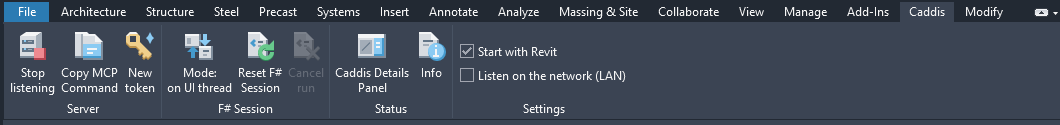
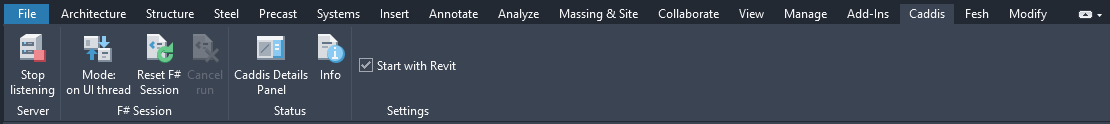
Update the screenshots in the READMEs of Rhino and Revit to Caddis 0.3.0
Taken in Rhino 8.35 and Revit 2026.5: the panel with its agents and versions, Revit's ribbon without the token and LAN buttons,
and new exemplary runs in Revit. The READMEs mention Run again and the versions under Settings.

diff --git a/Caddis.Rhino/README.md b/Caddis.Rhino/README.md
@@ -61,9 +61,11 @@ Open it with the command `Caddis` and the option `Panel`, then dock it like any 
 Its content is the Avalonia panel shared with Revit in `Caddis.UI`, hosted in Rhino's Eto docking container.
 Rhino supplies its theme colors and the additional command-line settings.
 
+Both screenshots were taken in Rhino 8.35 with Caddis 0.3.0, during and after the [exemplary run](#exemplary-run) below.
+
 | Dark theme, during a run | Light theme, with the settings unfolded |
 | --- | --- |
-| ![The Caddis panel in Rhino's dark theme, with a run in progress and the code of the first run](Docs/panel-dark.png) | ![The Caddis panel in Rhino's light theme, with the settings and the output of a run](Docs/panel-light.png) |
+| ![The Caddis panel in Rhino's dark theme, with a run in progress and the code of the first run](Docs/panel-dark.png) | ![The Caddis panel in Rhino's light theme, with the settings unfolded and the output of the third run](Docs/panel-light.png) |
 
 - The header shows where the server listens, and the state and thread mode of the F# session.
 - `Start` / `Stop` the server.
@@ -71,12 +73,14 @@ Rhino supplies its theme colors and the additional command-line settings.
   see [Connect an AI agent](../README.md#connect-an-ai-agent).
 - `Cancel run` stops a run on the background thread, `Reset FSI session` starts a new F# session.
 - `Settings` unfolds the thread mode and the options `Start with Rhino`, `Echo output to the command line`
-  and `Cancel commands in scripts that wait for input`. All buttons and options have tooltips.
+  and `Cancel commands in scripts that wait for input`, and shows the versions of .NET, FSharp.Core, FSharp.Compiler.Service and Caddis.
+  All buttons and options have tooltips.
 - The recent runs are listed newest first, with their id, status, duration and first line of code:
   `r` for F# code, `c` for Rhino commands, `x` for exports.
 - `Output` shows the value, stdout, the Rhino command line, F# Interactive's output, errors and files of the selected run.
 - `Code` shows its code read-only, with F# highlighting, line numbers and search (Ctrl+F).
   It is formatted with Fantomas, unchecking `Formatted` shows the code as it was run, whose line numbers match the errors.
+  `Run again` runs the code of the selected F# run as a new run.
   `Export` saves the code of the run to an `.fsx` file, `Export all` saves all successful F# runs to one,
   oldest first, each after a comment with its id and time. Both save the code as it is shown, formatted or not.
 
@@ -148,12 +152,13 @@ An agent sent these, the panel lists them newest first:
   ```
   </details>
 - `c2` sets up the view with Rhino commands, via `caddis_command`:
-  `-_SetActiveViewport Perspective`, `-_MaxViewport`, `-_SetDisplayMode _Viewport=_Active _Mode=_Shaded`, `_Zoom _All _Extents`.
+  `-_SetActiveViewport Perspective`, `-_MaxViewport`, `-_SetDisplayMode _Viewport=_Active _Mode=_Shaded`,
+  four times `-_RotateView _Right`, and `_Zoom _All _Extents`.
 - `r3` computes the volumes of the slabs. It uses `slabs` from `r1`: the values of earlier runs stay available.
 - `x4` exports all objects to `towers.obj`, via `caddis_export`.
 - `r5` runs for 12 s on the background thread, the viewport screenshot below was taken meanwhile.
 
-This screenshot was taken in Rhino 8.35 on Windows, after the runs listed above.
+This screenshot was taken in Rhino 8.35 on Windows with Caddis 0.3.0, while `r5` was running.
 
 ![Three twisted towers in a Rhino viewport, framed by the yellow border Caddis draws while a run is in progress](Docs/run-border.png)
 

diff --git a/Caddis.Revit/README.md b/Caddis.Revit/README.md
@@ -106,10 +106,12 @@ output, scrollbars and keyboard focus.
 
 The code viewer is read-only, with F# highlighting, line numbers and Ctrl+F search.
 The `Formatted` check box switches between Fantomas formatting and the original script, whose line
-numbers match the diagnostics. `Export` saves the code of the run to an `.fsx` file,
+numbers match the diagnostics. `Run again` runs the code of the selected F# run as a new run.
+`Export` saves the code of the run to an `.fsx` file,
 `Export all` saves all successful F# runs to one, oldest first, each after a comment
 with its id and time, both as the code is shown, formatted or not. `Settings` unfolds the thread mode
-and **Start with Revit**. Revit's latest status message and grouped
+and **Start with Revit**, and shows the versions of .NET, FSharp.Core and FSharp.Compiler.Service,
+and whether this is the latest version of Caddis. Revit's latest status message and grouped
 element changes are preserved; Rhino's command-line options are hidden.
 
 The shared view is covered by headless tests on .NET 8 and .NET 10. The WPF wrapper
@@ -122,12 +124,14 @@ was unchanged. The WPF shell fills its container without an outer margin, avoidi
 black strips at the edges. Mouse/keyboard interaction and moving between monitors
 still need manual verification.
 
-Both screenshots were taken in Revit 2026.5 after the same five runs: the first two list the levels and create four walls,
-the fourth fails because the project has no door type. The panel shows the output of the second run, which created the walls.
+Both screenshots were taken in Revit 2026.5 with Caddis 0.3.0, after the same five runs: `r1` lists the levels and wall types,
+`r2` creates four walls and `r3` a floor inside them. `r4` fails because the project has no door type,
+so `r5` cuts an opening into the first wall instead. The dark one shows the output of `r2`, which created the walls,
+the light one the error of `r4`, with the settings unfolded.
 
-| Dark theme | Light theme |
+| Dark theme | Light theme, with the settings unfolded |
 | --- | --- |
-| ![The Caddis panel in Revit's dark theme, with five runs and the output of the second](Docs/panel-dark.png) | ![The Caddis panel in Revit's light theme, with five runs and the output of the second](Docs/panel-light.png) |
+| ![The Caddis panel in Revit's dark theme, with five runs and the output of the second, which created four walls](Docs/panel-dark.png) | ![The Caddis panel in Revit's light theme, with the settings unfolded and the error of the fourth run](Docs/panel-light.png) |
 
 ## Differences to Rhino
 - The Revit API can only be used in Revit's API context, being on the UI thread is not enough.
